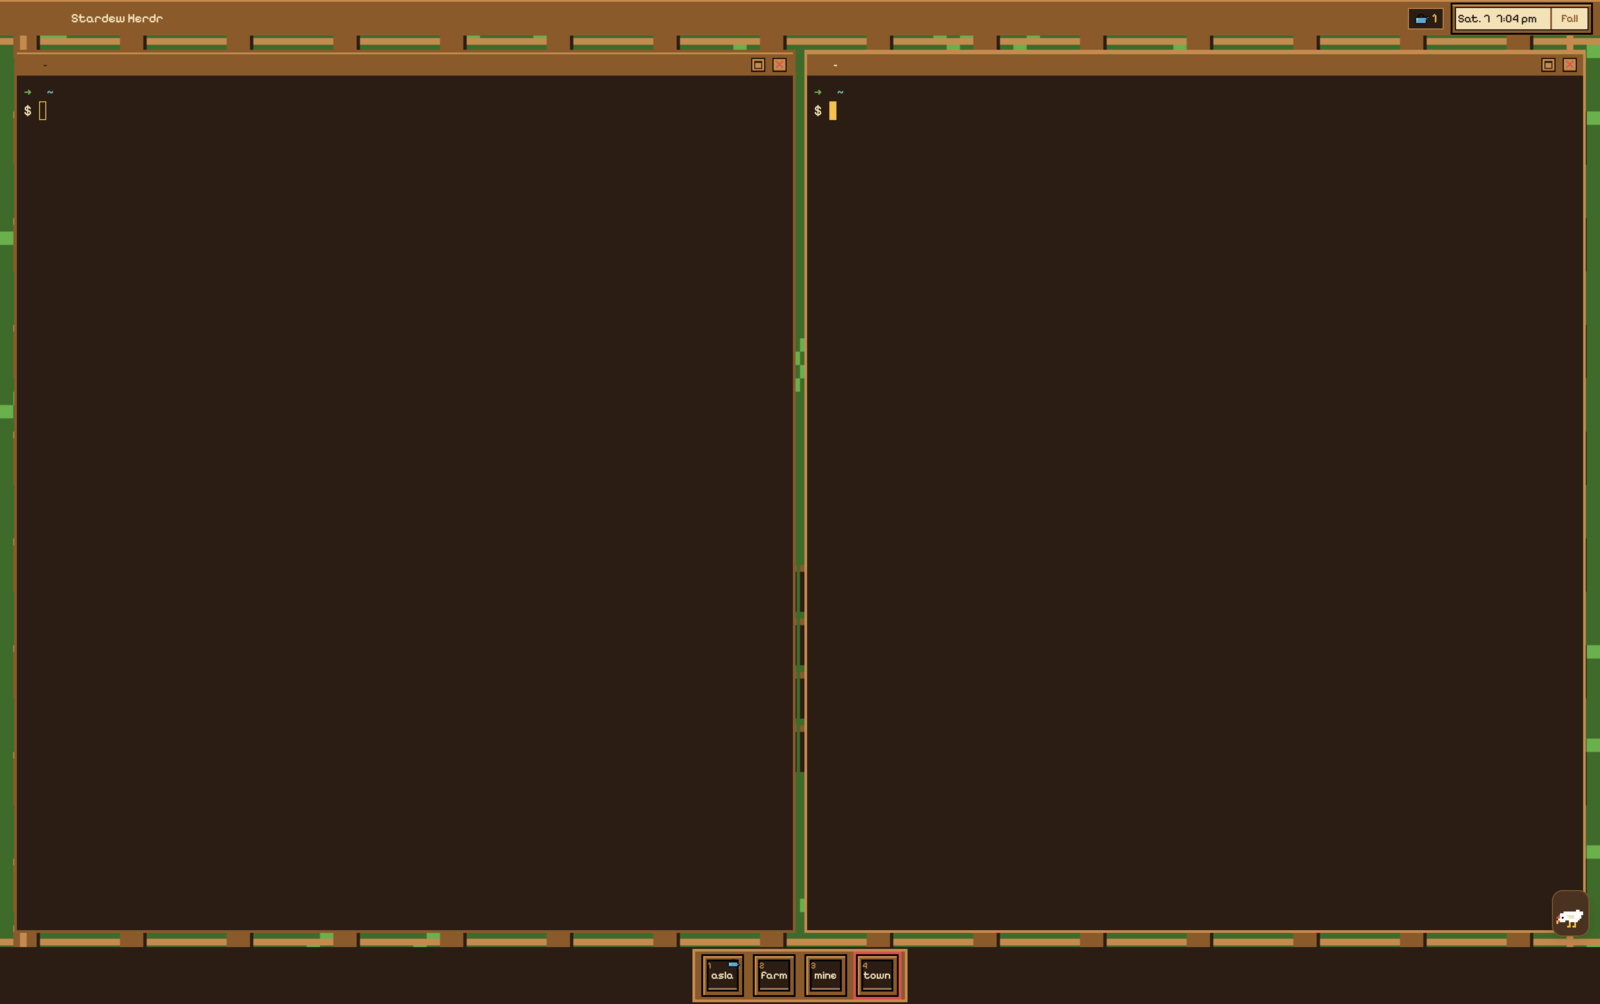
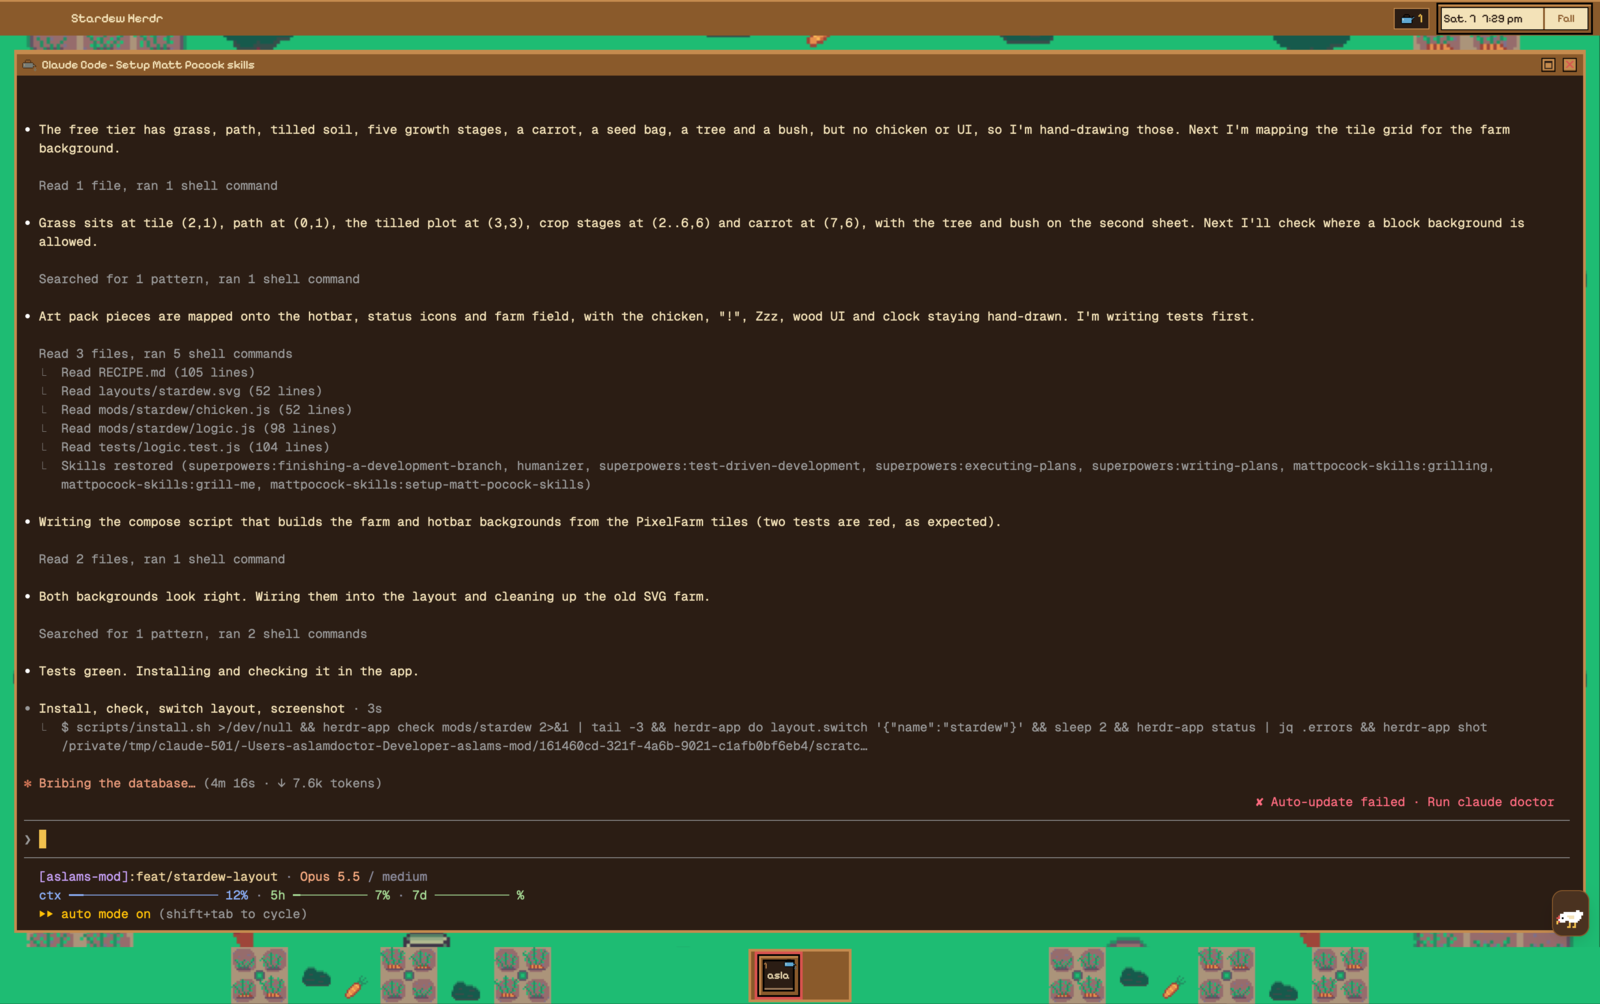
feat: use PixelFarm tiles for the farm and hotbar backgrounds
Compose farm.png and a hotbar grass strip from the CC0 PixelFarm sheets,
replacing the hand-drawn SVG farm. UI art stays original.

Changed region(s): [[0.0, 0.0, 1.0, 1.0], [0.8125, 0.7102, 0.9062, 0.741], [0.6875, 0.4631, 0.7188, 0.494]]

diff --git a/scripts/compose-farm.js b/scripts/compose-farm.js
@@ -1,0 +1,64 @@
+// Builds the farm and hotbar backgrounds from the PixelFarm (CC0) tiles in
+// assets/pixelfarm/. Drawn at 16px tiles, then scaled 2x with no smoothing.
+// Rerun with `bun scripts/compose-farm.js` (needs ImageMagick's `magick`).
+const ROOT = new URL("../", import.meta.url).pathname;
+const SET = `${ROOT}assets/pixelfarm/FreeTileSet.png`;
+const TREES = `${ROOT}assets/pixelfarm/FreeTreeTiles.png`;
+const OUT = `${ROOT}mods/stardew/art/`;
+const T = 16;
+
+// Source rectangles [x, y, w, h] in the tile sheets.
+const TILE = {
+  grass: [0, 32, T, T],
+  field: [0, 48, 48, 48],     // 3x3 tilled field with a grass border
+  plot: [48, 48, T, T],       // one round tilled plot
+  bed: [48, 64, 32, 32],      // 2x2 plots on a path
+  crop: (stage) => [32 + stage * T, 96, T, T], // stages 0..4
+  carrot: [112, 96, T, T],
+  seeds: [0, 96, T, T],
+};
+const TREE = [2, 6, 28, 41];
+const BUSH = [32, 4, 16, 12];
+
+function compose(name, cols, rows, items) {
+  const args = ["-size", `${cols * T}x${rows * T}`, "xc:none"];
+  for (let y = 0; y < rows; y++) for (let x = 0; x < cols; x++) items.unshift(["set", TILE.grass, x * T, y * T]);
+  for (const [sheet, [sx, sy, w, h], dx, dy] of items) {
+    args.push("(", sheet === "set" ? SET : TREES, "-crop", `${w}x${h}+${sx}+${sy}`, "+repage", ")",
+      "-geometry", `+${dx}+${dy}`, "-composite");
+  }
+  args.push("-filter", "point", "-resize", "200%", "-strip", `${OUT}${name}.png`);
+  const r = Bun.spawnSync(["magick", ...args]);
+  if (r.exitCode !== 0) throw new Error(r.stderr.toString());
+}
+
+// A tilled field planted at every stage, with crops filled into its 3x3 plots.
+const planted = (x, y, stages) => [["set", TILE.field, x, y],
+  ...stages.map((s, i) => ["set", TILE.crop(s), x + (i % 3) * T, y + Math.floor(i / 3) * T])];
+// A 2x2 bed with crops on its four plots.
+const bed = (x, y, stages) => [["set", TILE.bed, x, y],
+  ...stages.map((s, i) => ["set", TILE.crop(s), x + (i % 2) * T, y + Math.floor(i / 2) * T])];
+const tree = (x, y) => ["tree", TREE, x, y];
+const bush = (x, y) => ["tree", BUSH, x, y];
+
+// Farm, 30x19 tiles (960x608 at 2x). Panes cover the middle, so the detail
+// sits along the edges where padding and gaps show through.
+compose("farm", 30, 19, [
+  ...planted(8, 8, [0, 1, 2, 1, 2, 3, 2, 3, 4]),
+  ...planted(424, 248, [4, 3, 2, 3, 2, 1, 2, 1, 0]),
+  ...bed(424, 8, [4, 4, 3, 4]),
+  ...bed(8, 264, [1, 2, 2, 3]),
+  tree(64, 0), tree(380, 2), tree(4, 120), tree(448, 120), tree(60, 262), tree(380, 262),
+  bush(100, 40), bush(210, 4), bush(300, 6), bush(4, 200), bush(460, 80), bush(460, 200),
+  bush(200, 288), bush(290, 290), bush(140, 290),
+  ["set", TILE.carrot, 240, 4], ["set", TILE.seeds, 120, 284], ["set", TILE.plot, 330, 286],
+]);
+
+// Hotbar strip, 60x2 tiles (1920x64 at 2x). The wood box covers the center;
+// crops grow on both sides, inside the part a 1280px-wide window still shows.
+const side = (x0) => [
+  ...bed(x0, 0, [1, 2, 3, 4]), bush(x0 + 40, 10), ["set", TILE.carrot, x0 + 62, 14],
+  ...bed(x0 + 84, 0, [4, 3, 2, 1]), bush(x0 + 124, 18), ...bed(x0 + 148, 0, [2, 4, 4, 2]),
+];
+compose("hotbar-field", 60, 2, [...side(160), ...side(620)]);
+console.log("wrote farm.png and hotbar-field.png");

diff --git a/scripts/draw-art.js b/scripts/draw-art.js
@@ -252,38 +252,6 @@ function clock() {
     rect(5, 5, w - 10, h - 10, KEY.K) + rect(6, 6, w - 12, h - 12, C.parchment) + rect(split, 6, 2, h - 12, C.wood))];
 }
 
-// Farm, 960x600: grass with tufts, a tilled plot of soil rows, fence posts around the edge.
-function farm() {
-  const W = 960, H = 600, PX = 8;
-  let seed = 7;
-  const rnd = () => ((seed = (seed * 1103515245 + 12345) & 0x7fffffff) / 0x7fffffff);
-  let body = rect(0, 0, W, H, C.grassDark);
-  for (let i = 0; i < 260; i++) {
-    const x = Math.floor(rnd() * (W / PX)) * PX, y = Math.floor(rnd() * (H / PX)) * PX;
-    body += rect(x, y, PX, PX, C.grass) + rect(x + PX, y - PX, PX, PX, C.grass);
-  }
-  // Tilled plot, lower middle.
-  const px0 = 352, py0 = 344, cols = 8, rows = 4;
-  for (let r = 0; r < rows; r++) {
-    for (let c = 0; c < cols; c++) {
-      const x = px0 + c * 32, y = py0 + r * 32;
-      body += rect(x, y, 30, 28, C.soil) + rect(x, y, 30, 4, C.wood);
-      if ((r + c) % 3 === 0) body += rect(x + 12, y + 8, 6, 10, C.grass) + rect(x + 8, y + 10, 4, 4, C.grass);
-    }
-  }
-  // Fence: posts every 64px on all four edges, two rails between them.
-  const post = (x, y) => rect(x, y, 16, 32, C.wood) + rect(x, y, 16, 4, C.woodLight) + rect(x + 14, y, 2, 32, C.soil);
-  for (const y of [8, H - 40]) {
-    body += rect(0, y + 8, W, 4, C.woodLight) + rect(0, y + 20, W, 4, C.woodLight);
-    for (let x = 8; x < W; x += 64) body += post(x, y);
-  }
-  for (const x of [8, W - 24]) {
-    body += rect(x + 4, 0, 4, H, C.woodLight);
-    for (let y = 72; y < H - 64; y += 64) body += post(x, y);
-  }
-  return ["farm", svg(W, H, body)];
-}
-
 mkdirSync(OUT, { recursive: true });
-for (const [name, src] of [...sprites, slot(), plank(), clock(), farm()]) writeFileSync(`${OUT}${name}.svg`, src);
-console.log("drew", sprites.length + 4, "sprites into", OUT);
+for (const [name, src] of [...sprites, slot(), plank(), clock()]) writeFileSync(`${OUT}${name}.svg`, src);
+console.log("drew", sprites.length + 3, "sprites into", OUT);

diff --git a/tests/assets.test.js b/tests/assets.test.js
@@ -21,7 +21,7 @@ import { CLOCK } from "../mods/stardew/logic.js";
 
 const ART_DIR = new URL("../mods/stardew/art/", import.meta.url).pathname;
 const FONT_DIR = new URL("../mods/stardew/fonts/", import.meta.url).pathname;
-const NAMES = ["farm", "plank", "clock", "slot", "can-0", "can-1", "bang", "star", "zzz", "heart",
+const NAMES = ["plank", "clock", "slot", "can-0", "can-1", "bang", "star", "zzz", "heart",
   "chicken-0", "chicken-1", "btn-zoom", "btn-close"];
 const ALLOWED = new Set([...Object.values(C), "#000000", "#ffffff"]);
 
@@ -62,4 +62,28 @@ test("status icons have a black outline so they read on wood", () => {
 
 test("clock.svg is as wide as the clock box", () => {
   expect(readFileSync(`${ART_DIR}clock.svg`, "utf8")).toContain(`width="${CLOCK.w}"`);
+});
+
+import { png } from "../mods/stardew/art.js";
+import layout from "../layouts/stardew.json";
+
+const PNG_NAMES = ["farm", "hotbar-field"];
+const pngSize = (f) => { const b = readFileSync(f); return [b.readUInt32BE(16), b.readUInt32BE(20)]; };
+
+test("png() builds mod-relative paths", () => {
+  expect(png("farm")).toBe("mods/stardew/art/farm.png");
+});
+
+test("PixelFarm backgrounds exist at 2x and are credited", () => {
+  expect(pngSize(`${ART_DIR}farm.png`)).toEqual([960, 608]);
+  expect(pngSize(`${ART_DIR}hotbar-field.png`)).toEqual([1920, 64]);
+  expect(readFileSync(`${ART_DIR}CREDITS.md`, "utf8")).toContain("CC0");
+});
+
+test("layout uses the PixelFarm backgrounds", () => {
+  const find = (n, id) => n.id === id ? n : (n.children ?? []).map((c) => find(c, id)).find(Boolean);
+  for (const [id, name] of [["main", "farm"], ["hotbar", "hotbar-field"]]) {
+    expect(find(layout, id).background).toEqual({ image: png(name), fit: "cover" });
+  }
+  expect(PNG_NAMES.length).toBe(2);
 });

diff --git a/mods/stardew/art.js b/mods/stardew/art.js
@@ -1,3 +1,4 @@
 // Paths to the mod's sprites, relative to the Herdr home.
 export const ART = "mods/stardew/art";
 export const art = (name) => `${ART}/${name}.svg`;
+export const png = (name) => `${ART}/${name}.png`;

diff --git a/RECIPE.md b/RECIPE.md
@@ -1,6 +1,6 @@
 # Stardew Herdr
 
-A farm-game look for the Herdr desktop app. A wooden title bar carries a clock box with the day, time and season, and the count of working agents sits where a farm game shows your gold. Terminals are dark soil plots with plank headers on a grass field, every space is an inventory slot in a hotbar along the bottom, and a small chicken in the corner reacts when an agent finishes or gets blocked. All the art is original pixel art drawn for this layout.
+A farm-game look for the Herdr desktop app. A wooden title bar carries a clock box with the day, time and season, and the count of working agents sits where a farm game shows your gold. Terminals are dark soil plots with plank headers on a grass field, every space is an inventory slot in a hotbar along the bottom, and a small chicken in the corner reacts when an agent finishes or gets blocked. The UI art (wood, clock, icons, chicken) is original pixel art drawn for this layout. The farm and hotbar grass come from the free PixelFarm tiles by LushMustache (CC0).
 
 ![Stardew Herdr](preview.png)
 
@@ -14,10 +14,10 @@ Top to bottom:
   - a gold chip, 24px tall, soil fill with a 1px wood-light border, a 16px watering can and the number of working agents in 14px gold;
   - a 176x36 clock box drawn as a parchment panel with a divider at x=120. The left part shows the day and time ("Sat. 7  7:04 pm") in 13px soil, the right part the season ("Fall") in 12px wood.
   The whole bar drags the window.
-- **Field.** The tab area has a farm background (grass with tufts, a tilled plot and a fence, `cover` fit) and 16px padding. Panes are soil `#2b1d14` with a 3px wood border, 3px wood light when focused, square corners, 10px gaps, terminal opacity 1 and 8x4 terminal padding. A lone pane keeps its frame.
+- **Field.** The tab area has a farm background built from PixelFarm tiles (grass, planted fields, trees and bushes along the edges, `cover` fit) and 16px padding. Panes are soil `#2b1d14` with a 3px wood border, 3px wood light when focused, square corners, 10px gaps, terminal opacity 1 and 8x4 terminal padding. A lone pane keeps its frame.
 - **Pane header, 26px, always shown.** A wood plank with a 2px wood-light top line: a 16px status icon, the pane title in 13px (parchment when the pane is focused, soil when not), then 18px zoom and close buttons. The title is the program name, plus the terminal title when it differs ("claude - fix tests"). Shells show the working directory with home written as `~`.
 - **Chicken.** A 32px white chicken floats at the field's bottom-right corner.
-- **Hotbar, 64px.** A centered wood box with a 3px wood-light border holding one 48px slot per space, 4px apart. Each slot shows the space's first four letters in 12px parchment, its number (1 to 9, matching Herdr's `ctrl-1` to `ctrl-9` space shortcuts; slots past 9 get none) at the top-left in 10px wood light, and the space's status icon at 14px top-right. The shown space has a 3px red frame.
+- **Hotbar, 64px.** A strip of PixelFarm grass with planted beds on both sides, and on it a centered wood box with a 3px wood-light border holding one 48px slot per space, 4px apart. Each slot shows the space's first four letters in 12px parchment, its number (1 to 9, matching Herdr's `ctrl-1` to `ctrl-9` space shortcuts; slots past 9 get none) at the top-left in 10px wood light, and the space's status icon at 14px top-right. The shown space has a 3px red frame.
 
 The theme matches: soil background, parchment text, wood chrome, dark wood `#3a2718` surfaces, grass accent.
 
@@ -45,13 +45,14 @@ Layout `layouts/stardew.json`, a column:
   { "id": "titlebar", "type": "block", "size": { "px": 40 }, "window_drag": true,
     "content": { "mod": "stardew", "props": { "role": "titlebar" } } },
   { "id": "main", "type": "block", "padding": [16, 16],
-    "background": { "image": "mods/stardew/art/farm.svg", "fit": "cover" },
+    "background": { "image": "mods/stardew/art/farm.png", "fit": "cover" },
     "content": { "tab": "active", "pane": {
       "gap": 10, "radius": 0, "background": "#2b1d14",
       "border": { "width": 3, "color": "#8a5a2b" }, "focus": { "width": 3, "color": "#c58b4e" }, "lone": true,
       "header": { "content": { "mod": "stardew", "props": { "role": "header" } }, "height": 26, "position": "top", "reveal": "always" } } },
     "floating": [{ "id": "chicken", "content": { "mod": "stardew", "props": { "role": "chicken" } }, "edge": "right", "align": "end" }] },
   { "id": "hotbar", "type": "block", "size": { "px": 64 },
+    "background": { "image": "mods/stardew/art/hotbar-field.png", "fit": "cover" },
     "content": { "mod": "stardew", "props": { "role": "hotbar" } } } ],
   "theme": "stardew", "font": "Geist Mono", "font_size": 14, "ui_font": "Pixelify Sans",
   "terminal_padding": [8, 4], "terminal_opacity": 1, "background": "#2b1d14",
@@ -71,9 +72,9 @@ One mod, `mods/stardew/`, drawn by role (`props.role`):
 | `chicken.js` | chicken; `agents()`, `cx.timer.after(4000)`, runs `agent.focus {terminal}` |
 | `logic.js` | pure helpers (clock text, season, status looks, slot labels, tooltip text, header title, chicken mood), tested with `bun test` |
 | `palette.js` | the only place the hex values live |
-| `art.js` | `art(name)` gives `mods/stardew/art/<name>.svg` |
+| `art.js` | `art(name)` gives `mods/stardew/art/<name>.svg`, `png(name)` the `.png` |
 
-Art: 14 SVGs in `mods/stardew/art/`, all `shape-rendering="crispEdges"` and palette colors only (plus black and white): `can-0`, `can-1`, `bang`, `star`, `zzz`, `heart`, `chicken-0` (standing), `chicken-1` (pecking), `btn-zoom`, `btn-close`, `slot`, `plank`, `clock` (176x36) and `farm` (960x600). `scripts/draw-art.js` generates them all; rerun with `bun scripts/draw-art.js`. The font is `mods/stardew/fonts/PixelifySans.ttf` with its `OFL.txt`; fonts in a mod's `fonts/` folder load on their own.
+Art: 13 SVGs in `mods/stardew/art/`, all `shape-rendering="crispEdges"` and palette colors only (plus black and white): `can-0`, `can-1`, `bang`, `star`, `zzz`, `heart`, `chicken-0` (standing), `chicken-1` (pecking), `btn-zoom`, `btn-close`, `slot`, `plank` and `clock` (176x36). `scripts/draw-art.js` generates them; rerun with `bun scripts/draw-art.js`. Two PNGs, `farm.png` (960x608) and `hotbar-field.png` (1920x64), come from `scripts/compose-farm.js`, which crops 16px tiles out of the PixelFarm sheets in `assets/pixelfarm/` with ImageMagick and scales them 2x with point filtering; rerun with `bun scripts/compose-farm.js`. `mods/stardew/art/CREDITS.md` names the source and license. The font is `mods/stardew/fonts/PixelifySans.ttf` with its `OFL.txt`; fonts in a mod's `fonts/` folder load on their own.
 
 No shipped mods. It runs no programs, makes no network calls and reads no files outside its own folder.
 
@@ -82,7 +83,8 @@ No shipped mods. It runs no programs, makes no network calls and reads no files 
 - Install by copying, not symlinking: Herdr 0.1.13 doesn't hot-reload files behind a symlink. `scripts/install.sh` copies the layout, preview, theme and mod into `~/.config/herdr-app/` (`--remove` takes them out). Rerun it after each edit.
 - `h_flex` and `v_flex` come from `"gpui-base"`, not `"gpui-kit"`. `div` and `image` come from `"gpui-kit"`.
 - `.frames()` takes strings only. Animate images with `.loop("opacity" | "top", { from, to, period })` instead.
-- gpui-kit can't tile an image, so the farm is one 960x600 picture with `fit: "cover"`.
+- gpui-kit can't tile an image, so the farm is one 960x608 picture and the hotbar one 1920x64 strip, both `fit: "cover"`. Cover crops the strip's ends on narrow windows, so its planted beds sit between 320 and 1600 (at 2x) where a 1280px window still shows them.
+- The PixelFarm grass is a teal green, not the palette's `#6ab04c`; the asset palette test only checks the SVGs.
 - With the app in front, a finished agent goes straight from working to idle and never reports done. Count working to idle as finished, or the heart never shows.
 - The title bar must be 40px. At 36px the 36px clock box and the bar's top line get clipped.
 - Floats get Herdr's own rounded frame, so the chicken sits in a small box.

diff --git a/mods/stardew/art/CREDITS.md b/mods/stardew/art/CREDITS.md
@@ -1,0 +1,4 @@
+# Art credits
+
+- `farm.png` and `hotbar-field.png` are built by `scripts/compose-farm.js` from the free tier of PixelFarm by LushMustache (https://lushmustache.itch.io/pixelfarm), released as CC0. The source sheets are in `assets/pixelfarm/`.
+- Every `.svg` here is original pixel art drawn for this layout by `scripts/draw-art.js`.
